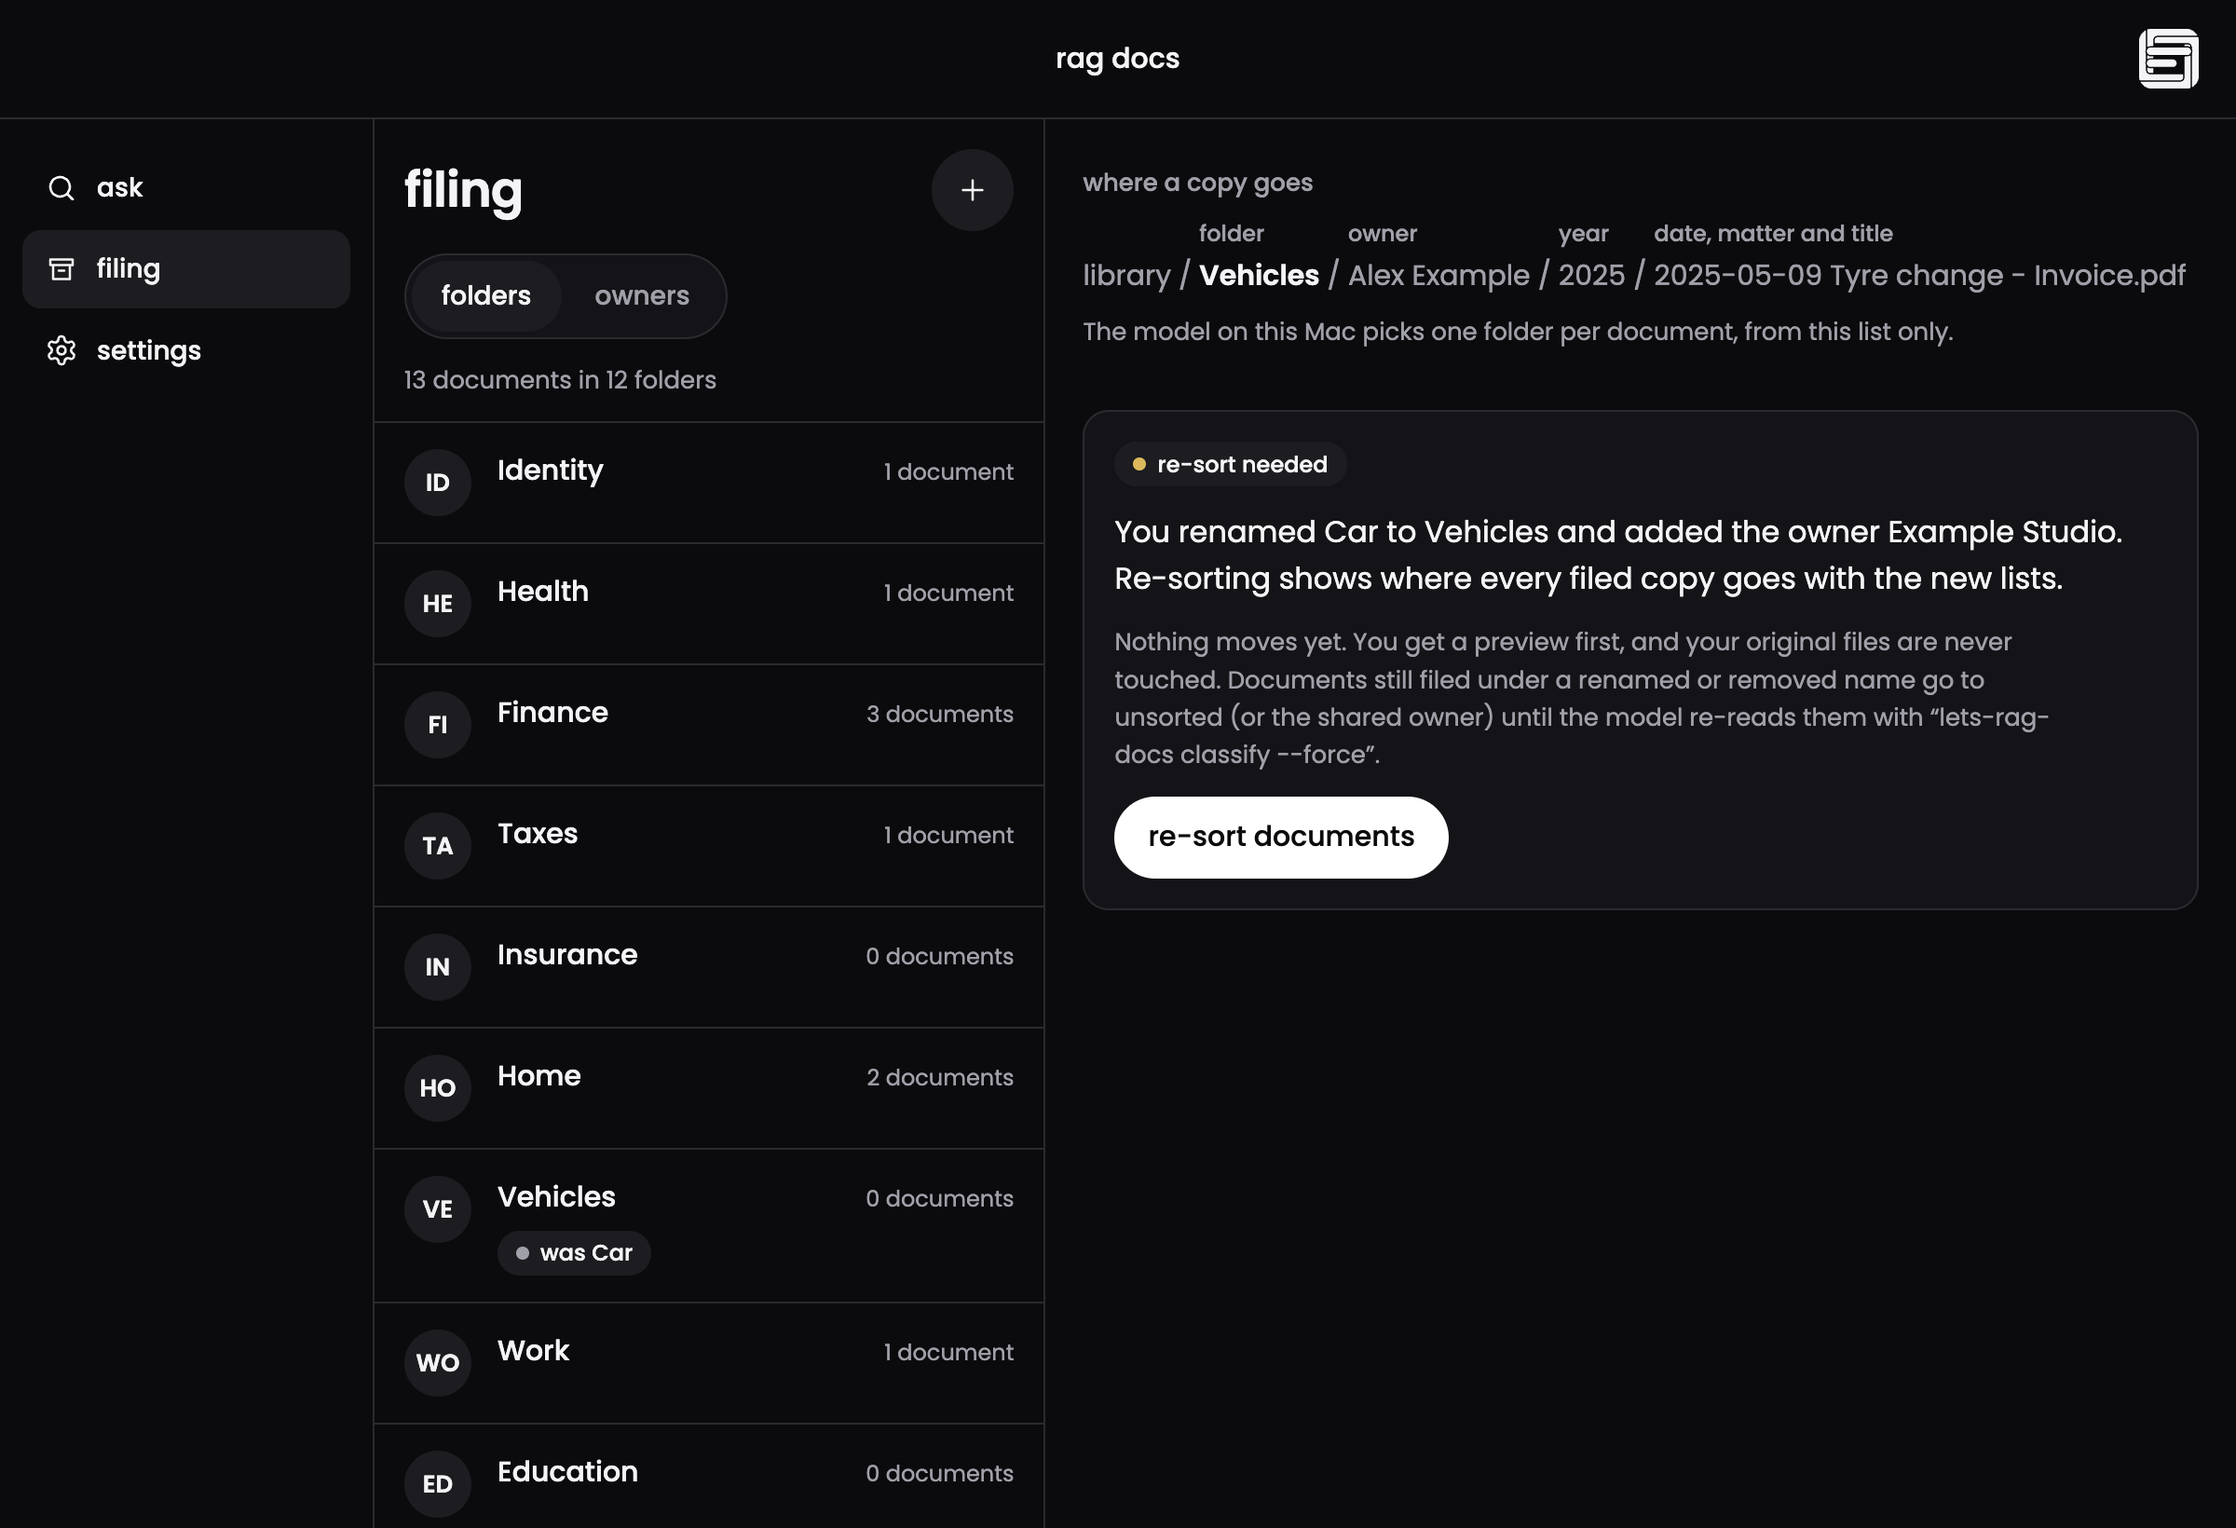
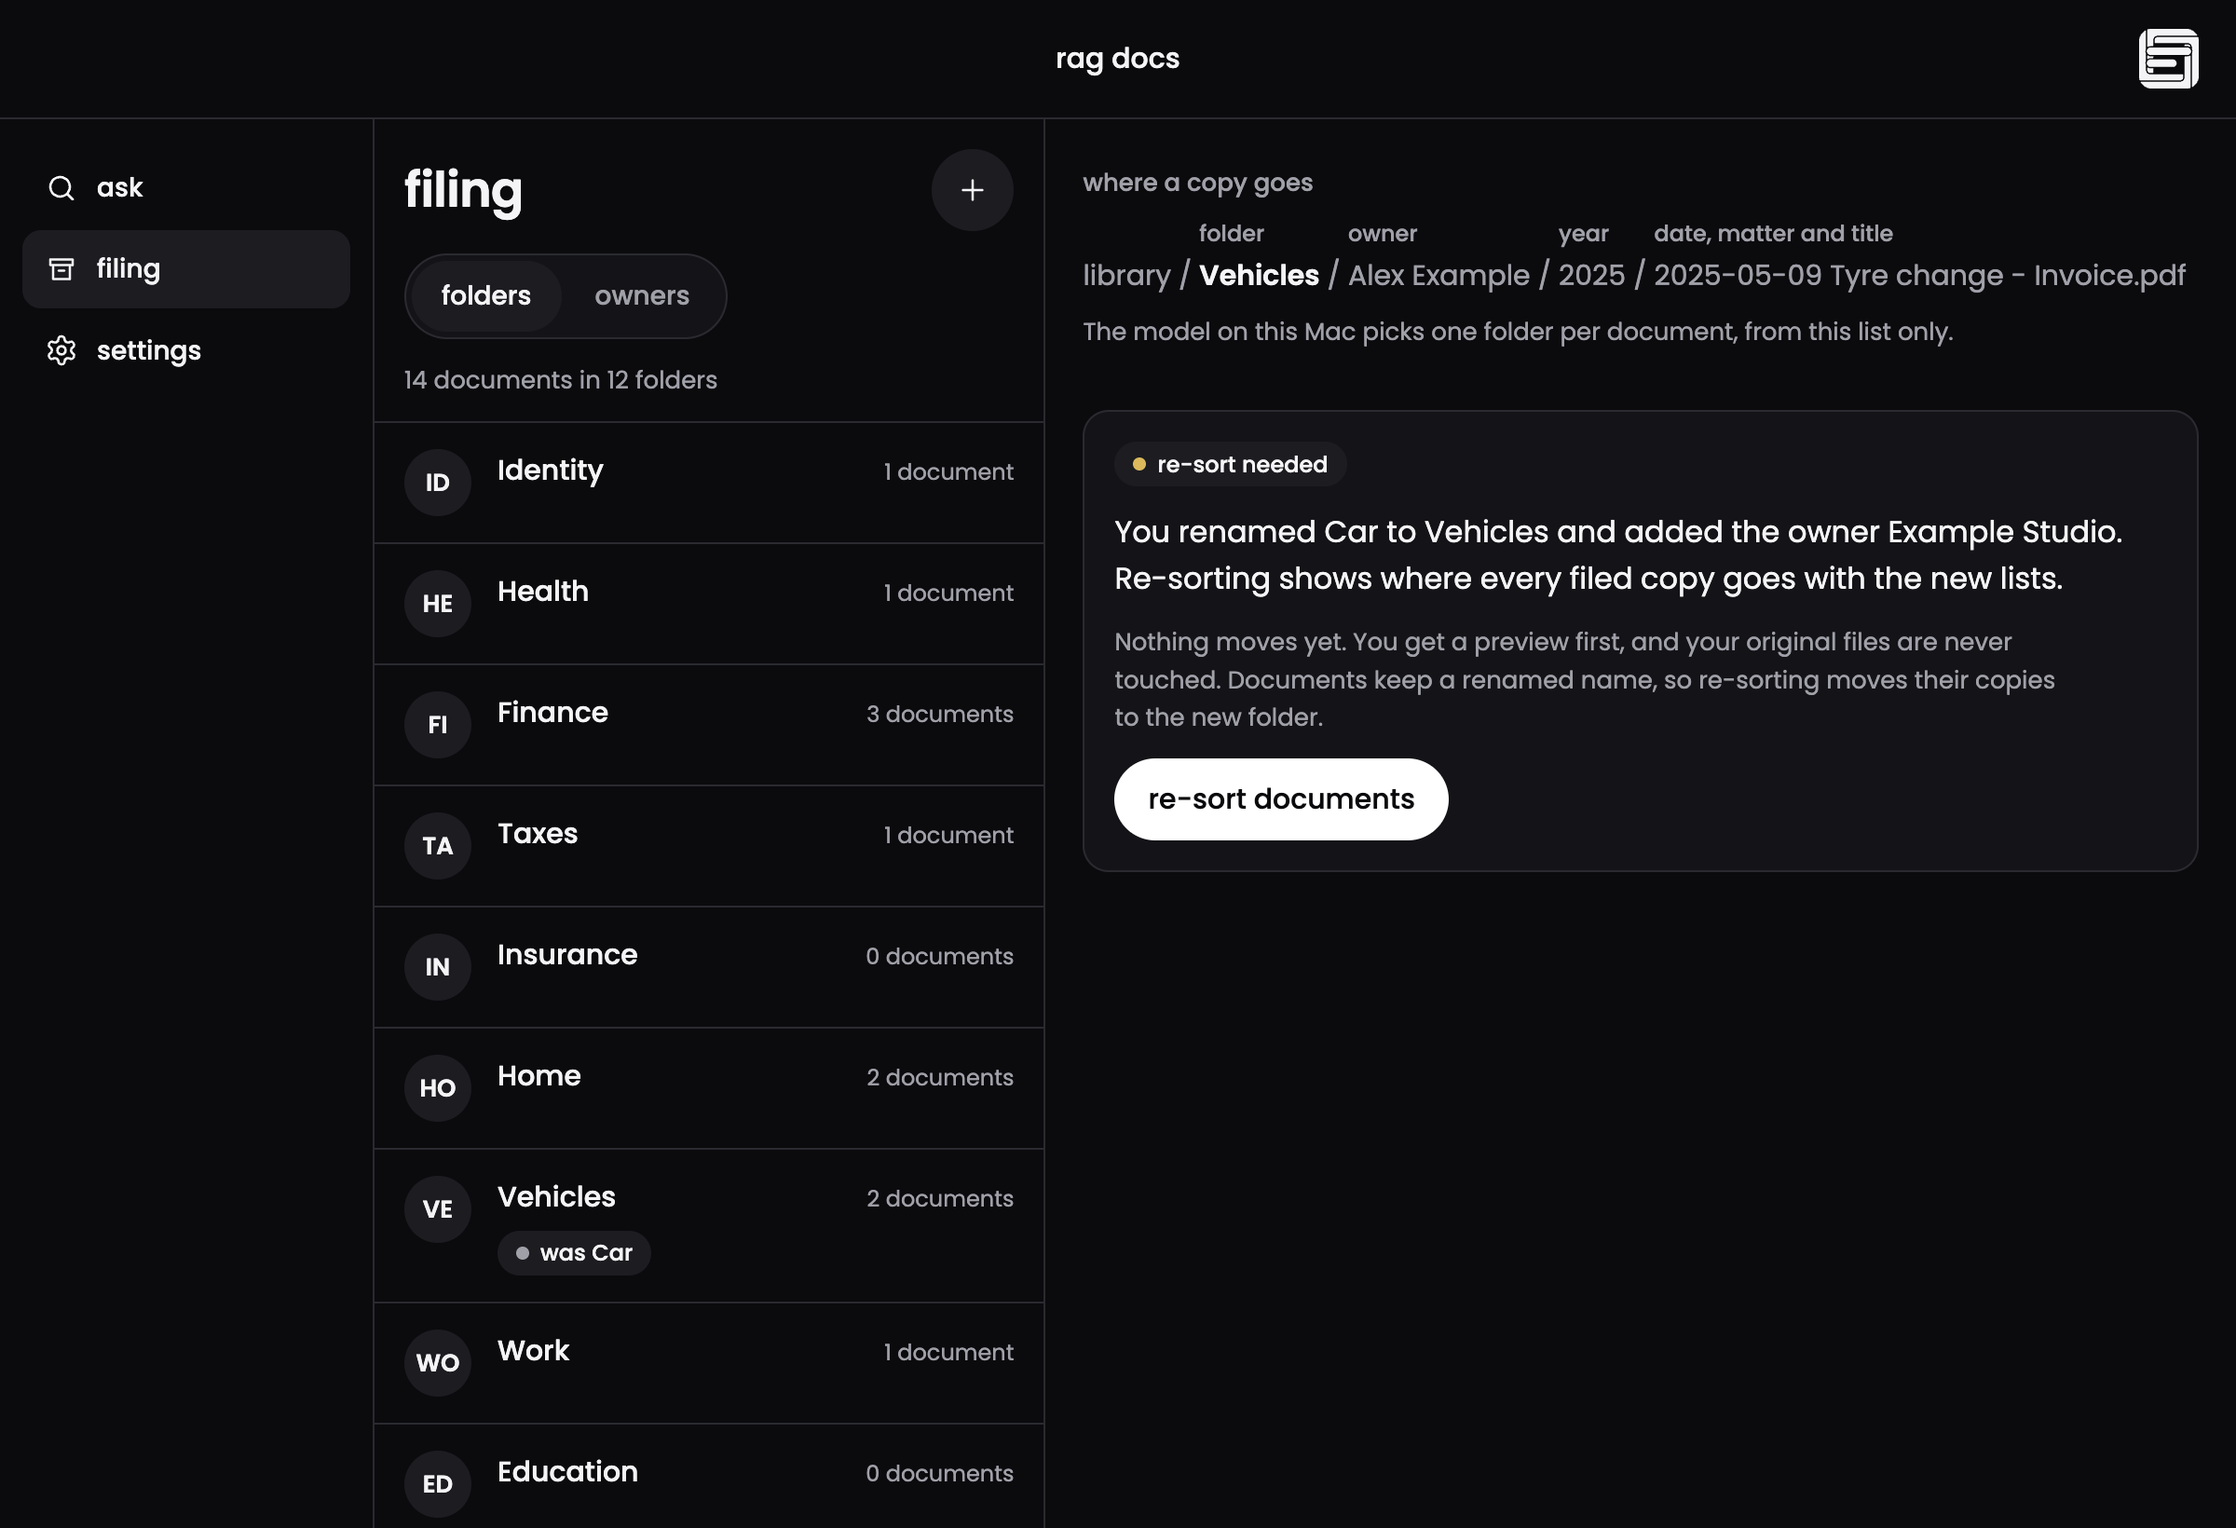
smoke and shots drive the new states; 36 regenerated screenshots
Smoke now checks the over-50 MB pill and MB sizes, search narrowing
and clearing, the add queue (ok/duplicate/failed and the library
growing), the p. 4 citation, the open button handing main the
located path, rename re-counting Vehicles and previews that move
to Vehicles (none to unsorted), and the shared owner going to
Household. Screenshots add ask-search, add-running (FAKE_ADD_DELAY_MS)
and add-done, plus the editable shared-owner form; all 36 light/dark
PNGs regenerated. The library search field insets with padding
inside the 100%-wide wrap so 360px never scrolls sideways.

Changed region(s): [[0.5, 0.4354, 0.9062, 0.5909]]

diff --git a/desktop/src/main.ts b/desktop/src/main.ts
@@ -446,6 +446,39 @@ async function loaded(browser: BrowserWindow): Promise<void> {
 	await new Promise<void>((resolve) => browser.webContents.once('did-finish-load', () => resolve()));
 }
 
+type SmokeChecks = {
+	libraryRows: number;
+	answered: boolean;
+	folderRows: number;
+	notice: boolean;
+	moves: number;
+	filed: string;
+	dangerPill: boolean;
+	sizeShown: boolean;
+	searchRows: number;
+	searchMeta: boolean;
+	cleared: number;
+	addDone: boolean;
+	addAdded: boolean;
+	addDuplicate: boolean;
+	addFailed: boolean;
+	grew: boolean;
+	pageCited: boolean;
+	openButtons: number;
+	vehiclesCounts: boolean;
+	movesToVehicles: boolean;
+	noUnsorted: boolean;
+	movesToHousehold: boolean;
+	applied: string;
+	persisted?: boolean;
+	raceSafe?: boolean;
+	titleWide?: boolean;
+	titleNarrow?: boolean;
+	appearanceLive?: boolean;
+	openAtLoginOk?: boolean;
+	openedPath?: boolean;
+};
+
 async function runSmoke(): Promise<void> {
 	const dir = freshFakeState();
 	const deadline = setTimeout(() => {
@@ -457,22 +490,63 @@ async function runSmoke(): Promise<void> {
 		const browser = makeWindow();
 		await loaded(browser);
 		const result = (await drive(browser, String.raw`
+      // Sizes and the over-50 MB pill come straight from the report; the big original is listed
+      // with its size and the reason it was never indexed.
+      const big = d.row('#libraryRows', 'big-scan.pdf');
+      const dangerPill = big.querySelector('.pill')?.textContent === 'not indexed: over 50 MB';
+      const sizeShown = (big.querySelector('.row-preview')?.textContent ?? '').includes('64 MB');
       const libraryRows = document.querySelectorAll('#libraryRows .row').length;
+      // Search narrows to the two loan documents, then an empty box restores the full list.
+      await d.type('#librarySearch', 'loan');
+      const searchRows = document.querySelectorAll('#libraryRows .row').length;
+      const searchMeta = / of \d+ documents/.test(d.find('#libraryMeta').textContent);
+      await d.type('#librarySearch', '');
+      const cleared = document.querySelectorAll('#libraryRows .row').length;
+      // Add: the picker seam hands over three synthetic files; one row per file, one outcome each.
+      await d.click('#addDocsButton');
+      const addDone = d.find('#addMeta').textContent === 'done';
+      const addOutcomes = [...document.querySelectorAll('#addRows .row-preview')].map((n) => n.textContent);
+      const addAdded = addOutcomes.some((x) => x.startsWith('added ('));
+      const addDuplicate = addOutcomes.includes('already added');
+      const addFailed = addOutcomes.some((x) => x.startsWith('failed:'));
+      const grew = document.querySelectorAll('#libraryRows .row').length === libraryRows + 1;
+      // Ask: the answer cites with a page, and an open button hands the library path to main.
       await d.type('#askInput', 'When is the car loan paid off?');
       await d.click('#askButton');
       const answered = !d.find('#answerBlock').hidden && d.find('#citations').children.length > 0;
+      const pageCited = [...d.find('#citations').children].some((c) => /, p\. 4/.test(c.textContent));
+      const openButtons = d.find('#openDocs').children.length;
+      d.find('#openDocs').firstChild.click();
+      await d.settle();
+      // Filing: rename Car to Vehicles. After the save the row already counts its documents,
+      // and the preview moves the copies to Vehicles (nothing to unsorted).
       await d.click('[data-section="filing"]');
       const folderRows = document.querySelectorAll('#filingRows .row').length;
       await d.pick('Car');
       await d.type('#nameInput', 'Vehicles');
       await d.click('#saveButton');
       const notice = !d.find('#noticeCard').hidden;
+      const vehiclesCounts = d.row('#filingRows', 'Vehicles').querySelector('.row-time')?.textContent === '2 documents';
       await d.click('#resortButton');
       const moves = document.querySelectorAll('#moveRows .row').length;
+      const movesToVehicles = [...document.querySelectorAll('#moveRows .row-subject')].some((n) => n.textContent.includes('Vehicles'));
+      const noUnsorted = ![...document.querySelectorAll('#moveRows .row-subject')].some((n) => n.textContent.includes('unsorted'));
       await d.click('#applyButton');
       const filed = d.find('#noticePill').textContent;
-      return { libraryRows, answered, folderRows, notice, moves, filed };
-    `		)) as { libraryRows: number; answered: boolean; folderRows: number; notice: boolean; moves: number; filed: string; persisted?: boolean; raceSafe?: boolean; titleWide?: boolean; titleNarrow?: boolean; appearanceLive?: boolean; openAtLoginOk?: boolean };
+      // Shared owner: editable now; "Household" moves unlisted documents in the next preview.
+      await d.click('[data-view="owners"]');
+      await d.pick('Shared');
+      await d.type('#nameInput', 'Household');
+      await d.click('#saveButton');
+      await d.click('#resortButton');
+      const movesToHousehold = [...document.querySelectorAll('#moveRows .row-subject')].some((n) => n.textContent.includes('Household'));
+      await d.click('#applyButton');
+      const applied = d.find('#noticePill').textContent;
+      return { libraryRows, answered, folderRows, notice, moves, filed, dangerPill, sizeShown, searchRows, searchMeta, cleared, addDone, addAdded, addDuplicate, addFailed, grew, pageCited, openButtons, vehiclesCounts, movesToVehicles, noUnsorted, movesToHousehold, applied };
+    `		)) as SmokeChecks;
+		// The open button ran in main: it resolved through the engine's locate and recorded the
+		// fake filed copy — the renderer never named a path.
+		result.openedPath = openLog[openLog.length - 1] === '/tmp/rag-docs-fake/library/Finance/Alex Example/2025/2025-03-14 Car loan - Repayment schedule.pdf';
 		// Edit -> save -> reload: the saved list comes back from the engine, not from page memory.
 		const reload = loaded(browser);
 		browser.reload();
@@ -526,6 +600,7 @@ async function runSmoke(): Promise<void> {
 		browser.reload();
 		await reloadNarrow;
 		result.titleNarrow = (await drive(browser, TITLE_ON)) as boolean;
+
 		browser.setSize(1200, 820);
 		const reloadLive = loaded(browser);
 		browser.reload();
@@ -556,9 +631,10 @@ async function runSmoke(): Promise<void> {
 
 		const title = browser.getTitle();
 		const own = isOwnFile(browser.webContents.getURL(), INDEX_URL);
-		const ok = own && title === PRODUCT_NAME && result.libraryRows > 0 && result.answered && result.folderRows > 0 && result.notice && result.moves > 0 && result.filed === 'filed' && result.persisted === true && result.raceSafe === true && result.titleWide === true && result.titleNarrow === true && result.appearanceLive === true && result.openAtLoginOk === true;
+		const ok = own && title === PRODUCT_NAME && result.libraryRows > 0 && result.answered && result.folderRows > 0 && result.notice && result.moves > 0 && result.filed === 'filed' && result.persisted === true && result.raceSafe === true && result.titleWide === true && result.titleNarrow === true && result.appearanceLive === true && result.openAtLoginOk === true
+			&& result.dangerPill && result.sizeShown && result.searchRows === 2 && result.searchMeta && result.cleared === result.libraryRows && result.addDone && result.addAdded && result.addDuplicate && result.addFailed && result.grew && result.pageCited && result.openButtons === 2 && result.openedPath && result.vehiclesCounts && result.movesToVehicles && result.noUnsorted && result.movesToHousehold && result.applied === 'filed';
 		if (ok) {
-			console.error(`SMOKE OK: library ${result.libraryRows} rows, answer with citations, ${result.folderRows} folder rows, rename -> notice -> ${result.moves} moves -> applied -> reloaded with the saved list; stale dry-run after a save refused; app name centred on ask/filing/settings at 1200px and 360px; appearance live (dark/light/system); open-at-login reflects the real login item`);
+			console.error(`SMOKE OK: library ${result.libraryRows} rows (big-scan pill + MB sizes), search "loan" -> 2 rows -> cleared, add 3 files -> added/duplicate/failed + library grew, answer cites p. 4 and an open button handed the located path to main, rename Car->Vehicles counts 2 documents and previews moves to Vehicles (none to unsorted), shared owner "Household" re-files; stale dry-run after a save refused; app name centred on ask/filing/settings at 1200px and 360px; appearance live (dark/light/system); open-at-login reflects the real login item`);
 			code = 0;
 		} else {
 			console.error(`SMOKE FAIL: own=${own} title=${title} checks=${JSON.stringify(result)}`);
@@ -572,7 +648,7 @@ async function runSmoke(): Promise<void> {
 	app.exit(code);
 }
 
-type Shot = { name: string; scenario: 'library' | 'no-owners'; width: number; height: number; steps: string; scrollTo?: string };
+type Shot = { name: string; scenario: 'library' | 'no-owners'; width: number; height: number; steps: string; scrollTo?: string; delayMs?: number };
 
 const OPEN_FILING = `await d.click('[data-section="filing"]');`;
 const OPEN_OWNERS = `${OPEN_FILING} await d.click('[data-view="owners"]');`;
@@ -582,16 +658,22 @@ const RENAME_AND_ADD = `${OPEN_FILING} await d.pick('Car'); await d.type('#nameI
   await d.click('[data-view="owners"]'); await d.click('#addButton'); await d.type('#nameInput', 'Example Studio'); await d.click('#saveButton');
   await d.click('[data-view="folders"]');`;
 
-/** Ask, then RagFiling's ten states, each reached by using the app the way a person would. */
+/** Ask with sizes and the pill, the add queue mid-run and done, then RagFiling's states, each
+ * reached by using the app the way a person would. */
+const SEARCH_LOAN = `await d.type('#librarySearch', 'loan');`;
+const ADD_DONE = `await d.click('#addDocsButton');`;
 const SHOTS: Shot[] = [
 	{ name: 'ask', scenario: 'library', width: 1200, height: 820, steps: ASK_STEPS },
+	{ name: 'ask-search', scenario: 'library', width: 1200, height: 820, steps: SEARCH_LOAN },
+	{ name: 'add-running', scenario: 'library', width: 1200, height: 820, steps: `d.find('#addDocsButton').click(); await new Promise((r) => setTimeout(r, 400));`, delayMs: 1500 },
+	{ name: 'add-done', scenario: 'library', width: 1200, height: 820, steps: ADD_DONE },
 	{ name: 'filing-folders', scenario: 'library', width: 1200, height: 820, steps: `${OPEN_FILING} await d.pick('Finance');` },
 	{ name: 'filing-editing', scenario: 'library', width: 1200, height: 820, steps: `${OPEN_FILING} await d.pick('Car'); await d.type('#nameInput', 'Vehicles');` },
 	{ name: 'filing-owners', scenario: 'library', width: 1200, height: 820, steps: `${OPEN_OWNERS} await d.pick('Alex Example');` },
 	{ name: 'filing-owners-empty', scenario: 'no-owners', width: 1200, height: 820, steps: OPEN_OWNERS },
 	{ name: 'filing-adding', scenario: 'library', width: 1200, height: 820, steps: `${OPEN_OWNERS} await d.click('#addButton'); await d.type('#nameInput', 'Example Studio');` },
 	{ name: 'filing-error', scenario: 'library', width: 1200, height: 820, steps: `${OPEN_OWNERS} await d.click('#addButton'); await d.type('#nameInput', 'Example/Studio');` },
-	{ name: 'filing-shared', scenario: 'library', width: 1200, height: 820, steps: `${OPEN_OWNERS} await d.pick('Shared');` },
+	{ name: 'filing-shared', scenario: 'library', width: 1200, height: 820, steps: `${OPEN_OWNERS} await d.pick('Shared'); await d.type('#nameInput', 'Household');` },
 	{ name: 'filing-changed', scenario: 'library', width: 1200, height: 820, steps: RENAME_AND_ADD },
 	{ name: 'filing-preview', scenario: 'library', width: 1200, height: 820, steps: `${RENAME_AND_ADD} await d.click('#resortButton');` },
 	{ name: 'filing-small', scenario: 'library', width: 360, height: 780, steps: `${OPEN_FILING} await d.pick('Finance');` },
@@ -617,6 +699,7 @@ async function runShots(): Promise<void> {
 			for (const shot of SHOTS) {
 				const dir = freshFakeState();
 				process.env.FAKE_SCENARIO = shot.scenario;
+				if (shot.delayMs) process.env.FAKE_ADD_DELAY_MS = String(shot.delayMs); else delete process.env.FAKE_ADD_DELAY_MS;
 				browser.setSize(shot.width, shot.height);
 				const reload = loaded(browser);
 				browser.reload();

diff --git a/desktop/test/renderer.test.ts b/desktop/test/renderer.test.ts
@@ -108,7 +108,7 @@ test('the app name is centred in the bar and reserves room for the emblem', () =
 
 test('screenshots cover the ask, filing and settings states in light and dark', () => {
 	const main = readFileSync(join(import.meta.dirname, '..', 'src', 'main.ts'), 'utf8');
-	for (const state of ['ask', 'folders', 'editing', 'owners', 'owners-empty', 'adding', 'error', 'shared', 'changed', 'preview', 'small', 'settings', 'settings-small']) {
+	for (const state of ['ask', 'ask-search', 'add-running', 'add-done', 'folders', 'editing', 'owners', 'owners-empty', 'adding', 'error', 'shared', 'changed', 'preview', 'small', 'settings', 'settings-small']) {
 		for (const mode of ['light', 'dark']) {
 			assert.ok(main.includes(state) && main.includes(mode), `shots missing ${state}-${mode}`);
 		}

diff --git a/desktop/renderer/app.css b/desktop/renderer/app.css
@@ -498,9 +498,11 @@ button.row:hover {
   line-height: 1.55;
 }
 
-/* Library search: the design's field, same styles as the ask form. */
+/* Library search: the design's field, same styles as the ask form. The inset is padding inside
+the 100%-wide wrap, so the narrow (360px) pane never grows a sideways scrollbar. */
 .library .field-wrap {
-  margin: 0 var(--s4) var(--s4);
+  box-sizing: border-box;
+  padding: 0 var(--s4) var(--s4);
 }
 
 /* Add progress: one row per picked file, the count in its head. */
